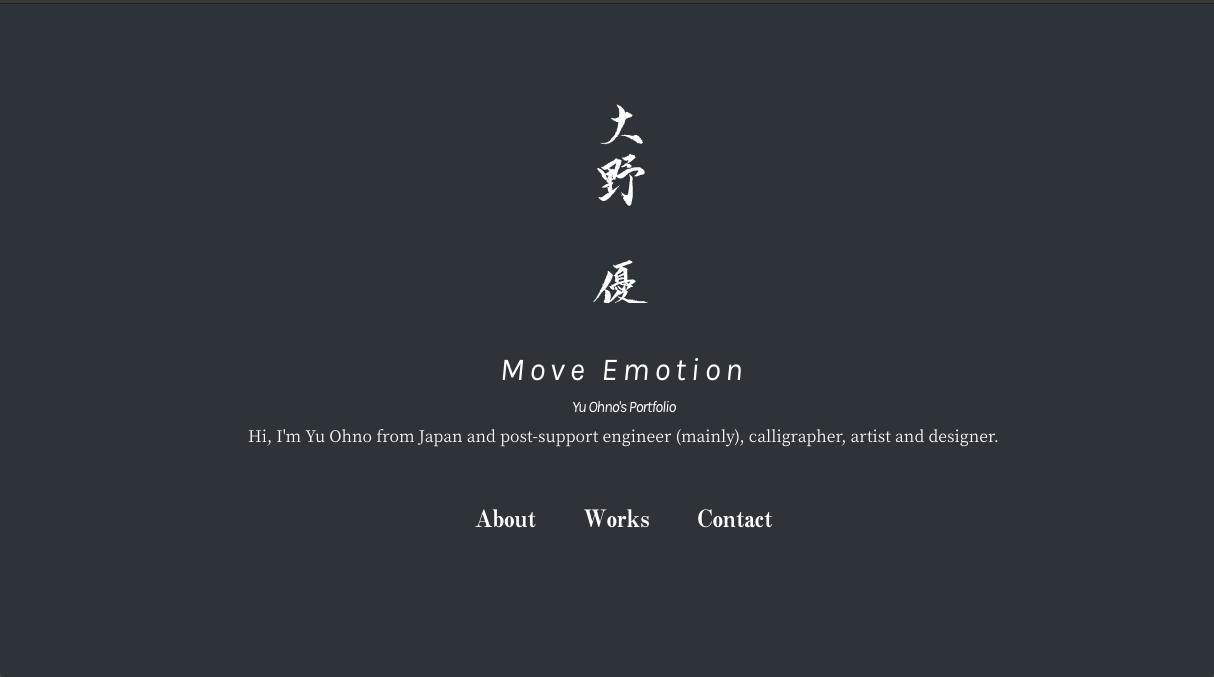
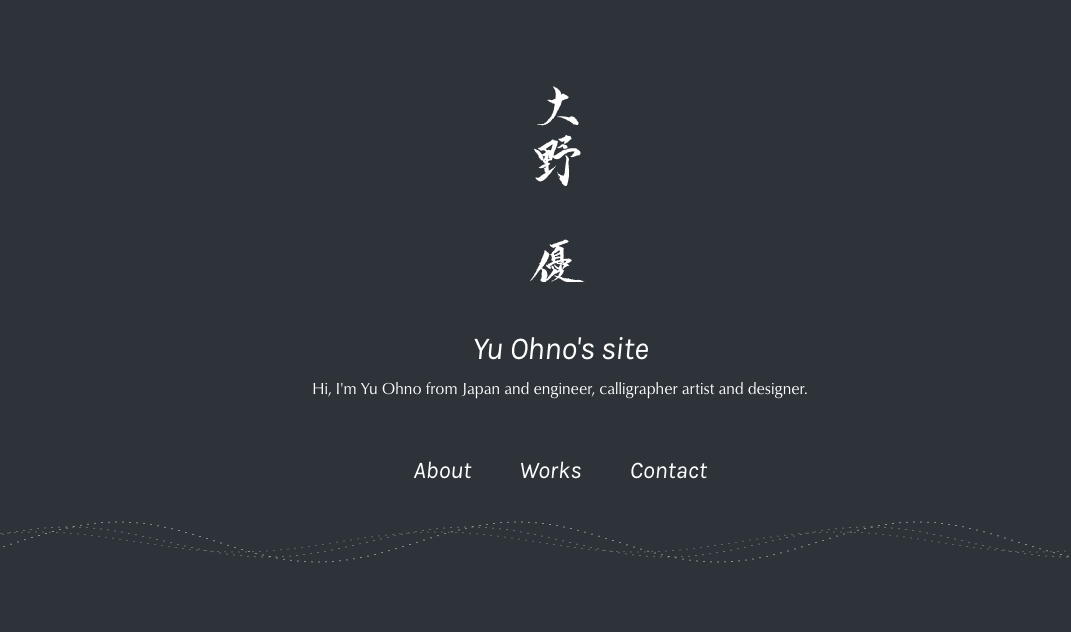
put the link and modify home page

diff --git a/src/data/portfolios.js b/src/data/portfolios.js
@@ -13,16 +13,16 @@ export var state = {
         description: "Design and Develop with XML, CSS and JavaScript on Fitbit Ionic",
         imageUrl: "watchface"
       },
-      // {
-      //   id: "webdesign",
-      //   name: "Web Design",
-      //   description: "Design and develop Web pages/Web services with HTML, CSS, JavaScript(jQuery, ReactJS etc.)",
-      //   imageUrl: "mis"
-      // },
+      {
+        id: "webdesign",
+        name: "Web Design",
+        description: "Design and develop Web pages/Web services with HTML, CSS, JavaScript(jQuery, ReactJS etc.)",
+        imageUrl: "mis"
+      },
       {
         id: "miscelleneous",
         name: "Miscelleneous",
-        description: "Others",
+        description: "Hardware system, Mobile apps, Research Projects, and so on.",
         imageUrl: "mis"
       }
     ],
@@ -233,6 +233,16 @@ export var state = {
             type: "paragraph",
             header: "Used Technologies",
             contents:"HTML(Bootstrap4), CSS, JavaScript (jQuery and ReactJS), OpenWeatherMap API (to fetch weather information)"
+          },
+          {
+            type: "link",
+            header: "",
+            links: [
+              {
+                name: "Visit Website",
+                href: "https://yasmro.github.io/weatherappreact/"
+              }
+            ]
           }
            
         ],
@@ -256,6 +266,16 @@ export var state = {
             type: "paragraph",
             header: "Used Technologies",
             contents:"HTML(Bootstrap4), CSS, JavaScript (jQuery and ReactJS), CocktailDB API (to fetch weather information)"
+          },
+          {
+            type: "link",
+            header: "",
+            links: [
+              {
+                name: "Visit Website",
+                href: "https://yasmro.github.io/cocktailappreact/"
+              }
+            ]
           }
            
         ],
@@ -269,7 +289,7 @@ export var state = {
     miscelleneous: {
       id: "miscelleneous",
       name: "Miscelleneous",
-      description: "Others",
+      description: "Hardware system, Mobile apps, Research Projects, and so on.",
       imageUrl: "mis",
       portfolios:[
   
@@ -406,76 +426,96 @@ export var state = {
       //     "test2"
       //   ]
       // }
-      ,
-      {
-        id:6,
-        title:"Own Portfolio Sites",
-        key: "portfolio",
-        category: "Web Design",
-        abstract: "This site was developed for expression my work and making visitors more impressive. The front-end Javascript was written in ReactJS in order to output of learning ReactJS.",
-        description:[
-          {
-            type: "paragraph",
-            header: "Duration",
-            contents:"3 weeks"
-          },
-          {
-            type: "paragraph",
-            header: "Used Technologies",
-            contents:"HTML(Bootstrap4), CSS, JavaScript (jQuery and ReactJS)"
-          }
+      // ,
+      // {
+      //   id:6,
+      //   title:"Own Portfolio Sites",
+      //   key: "portfolio",
+      //   category: "Web Design",
+      //   abstract: "This site was developed for expression my work and making visitors more impressive. The front-end Javascript was written in ReactJS in order to output of learning ReactJS.",
+      //   description:[
+      //     {
+      //       type: "paragraph",
+      //       header: "Duration",
+      //       contents:"3 weeks"
+      //     },
+      //     {
+      //       type: "paragraph",
+      //       header: "Used Technologies",
+      //       contents:"HTML(Bootstrap4), CSS, JavaScript (jQuery and ReactJS)"
+      //     }
            
-        ],
-        images:[
-          "test2"
-        ]
-      },
-      {
-        id:7,
-        title:"Weather App",
-        key: "weather",
-        category: "Web Design",
-        abstract: "This site is the weather forcast information fetched from OpenWeatherMap. The front-end Javascript was written in ReactJS in order to output of learning ReactJS as well as the portfolio.",
-        description:[
-          {
-            type: "paragraph",
-            header: "Duration",
-            contents:"16 hours"
-          },
-          {
-            type: "paragraph",
-            header: "Used Technologies",
-            contents:"HTML(Bootstrap4), CSS, JavaScript (jQuery and ReactJS), OpenWeatherMap API (to fetch weather information)"
-          }
+      //   ],
+      //   images:[
+      //     "test2"
+      //   ]
+      // },
+      // {
+      //   id:7,
+      //   title:"Weather App",
+      //   key: "weather",
+      //   category: "Web Design",
+      //   abstract: "This site is the weather forcast information fetched from OpenWeatherMap. The front-end Javascript was written in ReactJS in order to output of learning ReactJS as well as the portfolio.",
+      //   description:[
+      //     {
+      //       type: "paragraph",
+      //       header: "Duration",
+      //       contents:"16 hours"
+      //     },
+      //     {
+      //       type: "paragraph",
+      //       header: "Used Technologies",
+      //       contents:"HTML(Bootstrap4), CSS, JavaScript (jQuery and ReactJS), OpenWeatherMap API (to fetch weather information)"
+      //     },
+      //     {
+      //       type: "link",
+      //       header: "",
+      //       links: [
+      //         {
+      //           name: "Visit Website",
+      //           href: "https://yasmro.github.io/weatherappreact/"
+      //         }
+      //       ]
+      //     }
            
-        ],
-        images:[
-          "test2"
-        ]
-      },
-      {
-        id:8,
-        title:"Cocktail Database",
-        key: "cocktail",
-        category: "Web Design",
-        abstract: "This site provides the cocktail's information such as thumbnail, ingredients, instruction and so on. These information are fetched from CocktailDB API. The front-end Javascript was written in ReactJS in order to output of learning ReactJS.",
-        description:[
-          {
-            type: "paragraph",
-            header: "Duration",
-            contents:"12 hours"
-          },
-          {
-            type: "paragraph",
-            header: "Used Technologies",
-            contents:"HTML(Bootstrap4), CSS, JavaScript (jQuery and ReactJS), CocktailDB API (to fetch weather information)"
-          }
+      //   ],
+      //   images:[
+      //     "test2"
+      //   ]
+      // },
+      // {
+      //   id:8,
+      //   title:"Cocktail Database",
+      //   key: "cocktail",
+      //   category: "Web Design",
+      //   abstract: "This site provides the cocktail's information such as thumbnail, ingredients, instruction and so on. These information are fetched from CocktailDB API. The front-end Javascript was written in ReactJS in order to output of learning ReactJS.",
+      //   description:[
+      //     {
+      //       type: "paragraph",
+      //       header: "Duration",
+      //       contents:"12 hours"
+      //     },
+      //     {
+      //       type: "paragraph",
+      //       header: "Used Technologies",
+      //       contents:"HTML(Bootstrap4), CSS, JavaScript (jQuery and ReactJS), CocktailDB API (to fetch weather information)"
+      //     },
+      //     {
+      //       type: "link",
+      //       header: "",
+      //       links: [
+      //         {
+      //           name: "Visit Website",
+      //           href: "https://yasmro.github.io/cocktailappreact/"
+      //         }
+      //       ]
+      //     }
            
-        ],
-        images:[
-          "test2"
-        ]
-      }
+      //   ],
+      //   images:[
+      //     "test2"
+      //   ]
+      // }
 
       ]
     }

diff --git a/src/components/Home.js b/src/components/Home.js
@@ -50,7 +50,7 @@ class Home extends Component {
         transition={{
           duration: 1,
           delay:1
-        }} className="list-unstyled pl-0 position-absolute position-fixed" id="topmenu" style={{"top": "2.5%", "right": "0%"}}>
+        }} className="list-unstyled pl-0 position-absolute position-fixed d-md-none d-inline" id="topmenu" style={{"top": "2.5%", "right": "0%"}}>
               <div className="pt-2 pb-2"><Link className="h4 text-white mb-3 px-4 menu-btn" to={process.env.PUBLIC_URL + "/about"}>About</Link></div>
               <div className="pt-2 pb-2"><Link className="h4 text-white mb-3 px-4 menu-btn" to={process.env.PUBLIC_URL + "/works"}>Works</Link></div>
               <div className="pt-2 pb-2"><Link className="h4 text-white mb-3 px-4 menu-btn" to={process.env.PUBLIC_URL + "/contact"}>Contact</Link></div>
@@ -111,7 +111,7 @@ class Home extends Component {
               </motion.div>
             
       
-            {/* <div className="text-center">
+            <div className="text-center">
             <motion.div animate={{
           y: 0,
           opacity: 1
@@ -127,7 +127,7 @@ class Home extends Component {
         transition={{
           duration: 1,
           delay:1
-        }} className="list-unstyled pl-0 d-flex justify-content-center" id="topmenu">
+        }} className="list-unstyled pl-0 d-none d-md-flex justify-content-center" id="topmenu">
               <div className="pt-2 pb-2"><Link className="h4 text-white mb-3 px-4 menu-btn" to={process.env.PUBLIC_URL + "/about"}>About</Link></div>
               <div className="pt-2 pb-2"><Link className="h4 text-white mb-3 px-4 menu-btn" to={process.env.PUBLIC_URL + "/works"}>Works</Link></div>
               <div className="pt-2 pb-2"><Link className="h4 text-white mb-3 px-4 menu-btn" to={process.env.PUBLIC_URL + "/contact"}>Contact</Link></div>
@@ -135,7 +135,7 @@ class Home extends Component {
 
             
 
-            </div> */}
+            </div>
           </motion.div>
 
           

diff --git a/src/App.css b/src/App.css
@@ -47,6 +47,7 @@ h1{
 h2, h3, h4, h5, h6, dt, span.a, span.badge, .nav-link, .header, .counter{
   font-family: 'Karla', neue-haas-grotesk-text,  din-2014, 'Inter', fot-rodin-pron, fot-udkakugo-large-pr6n,  'Overpass', 'Noto Serif JP', 'Montserrat', 'Bitter', 'Karla', 'Noto Serif JP', kozuka-gothic-pr6n, neue-haas-grotesk-display, brix-slab, fot-rodin-pron;
   font-style: italic;
+  /* font-weight:700; futura-pt,  */
 }
 
 h2, h3, h4, h5, h6{
